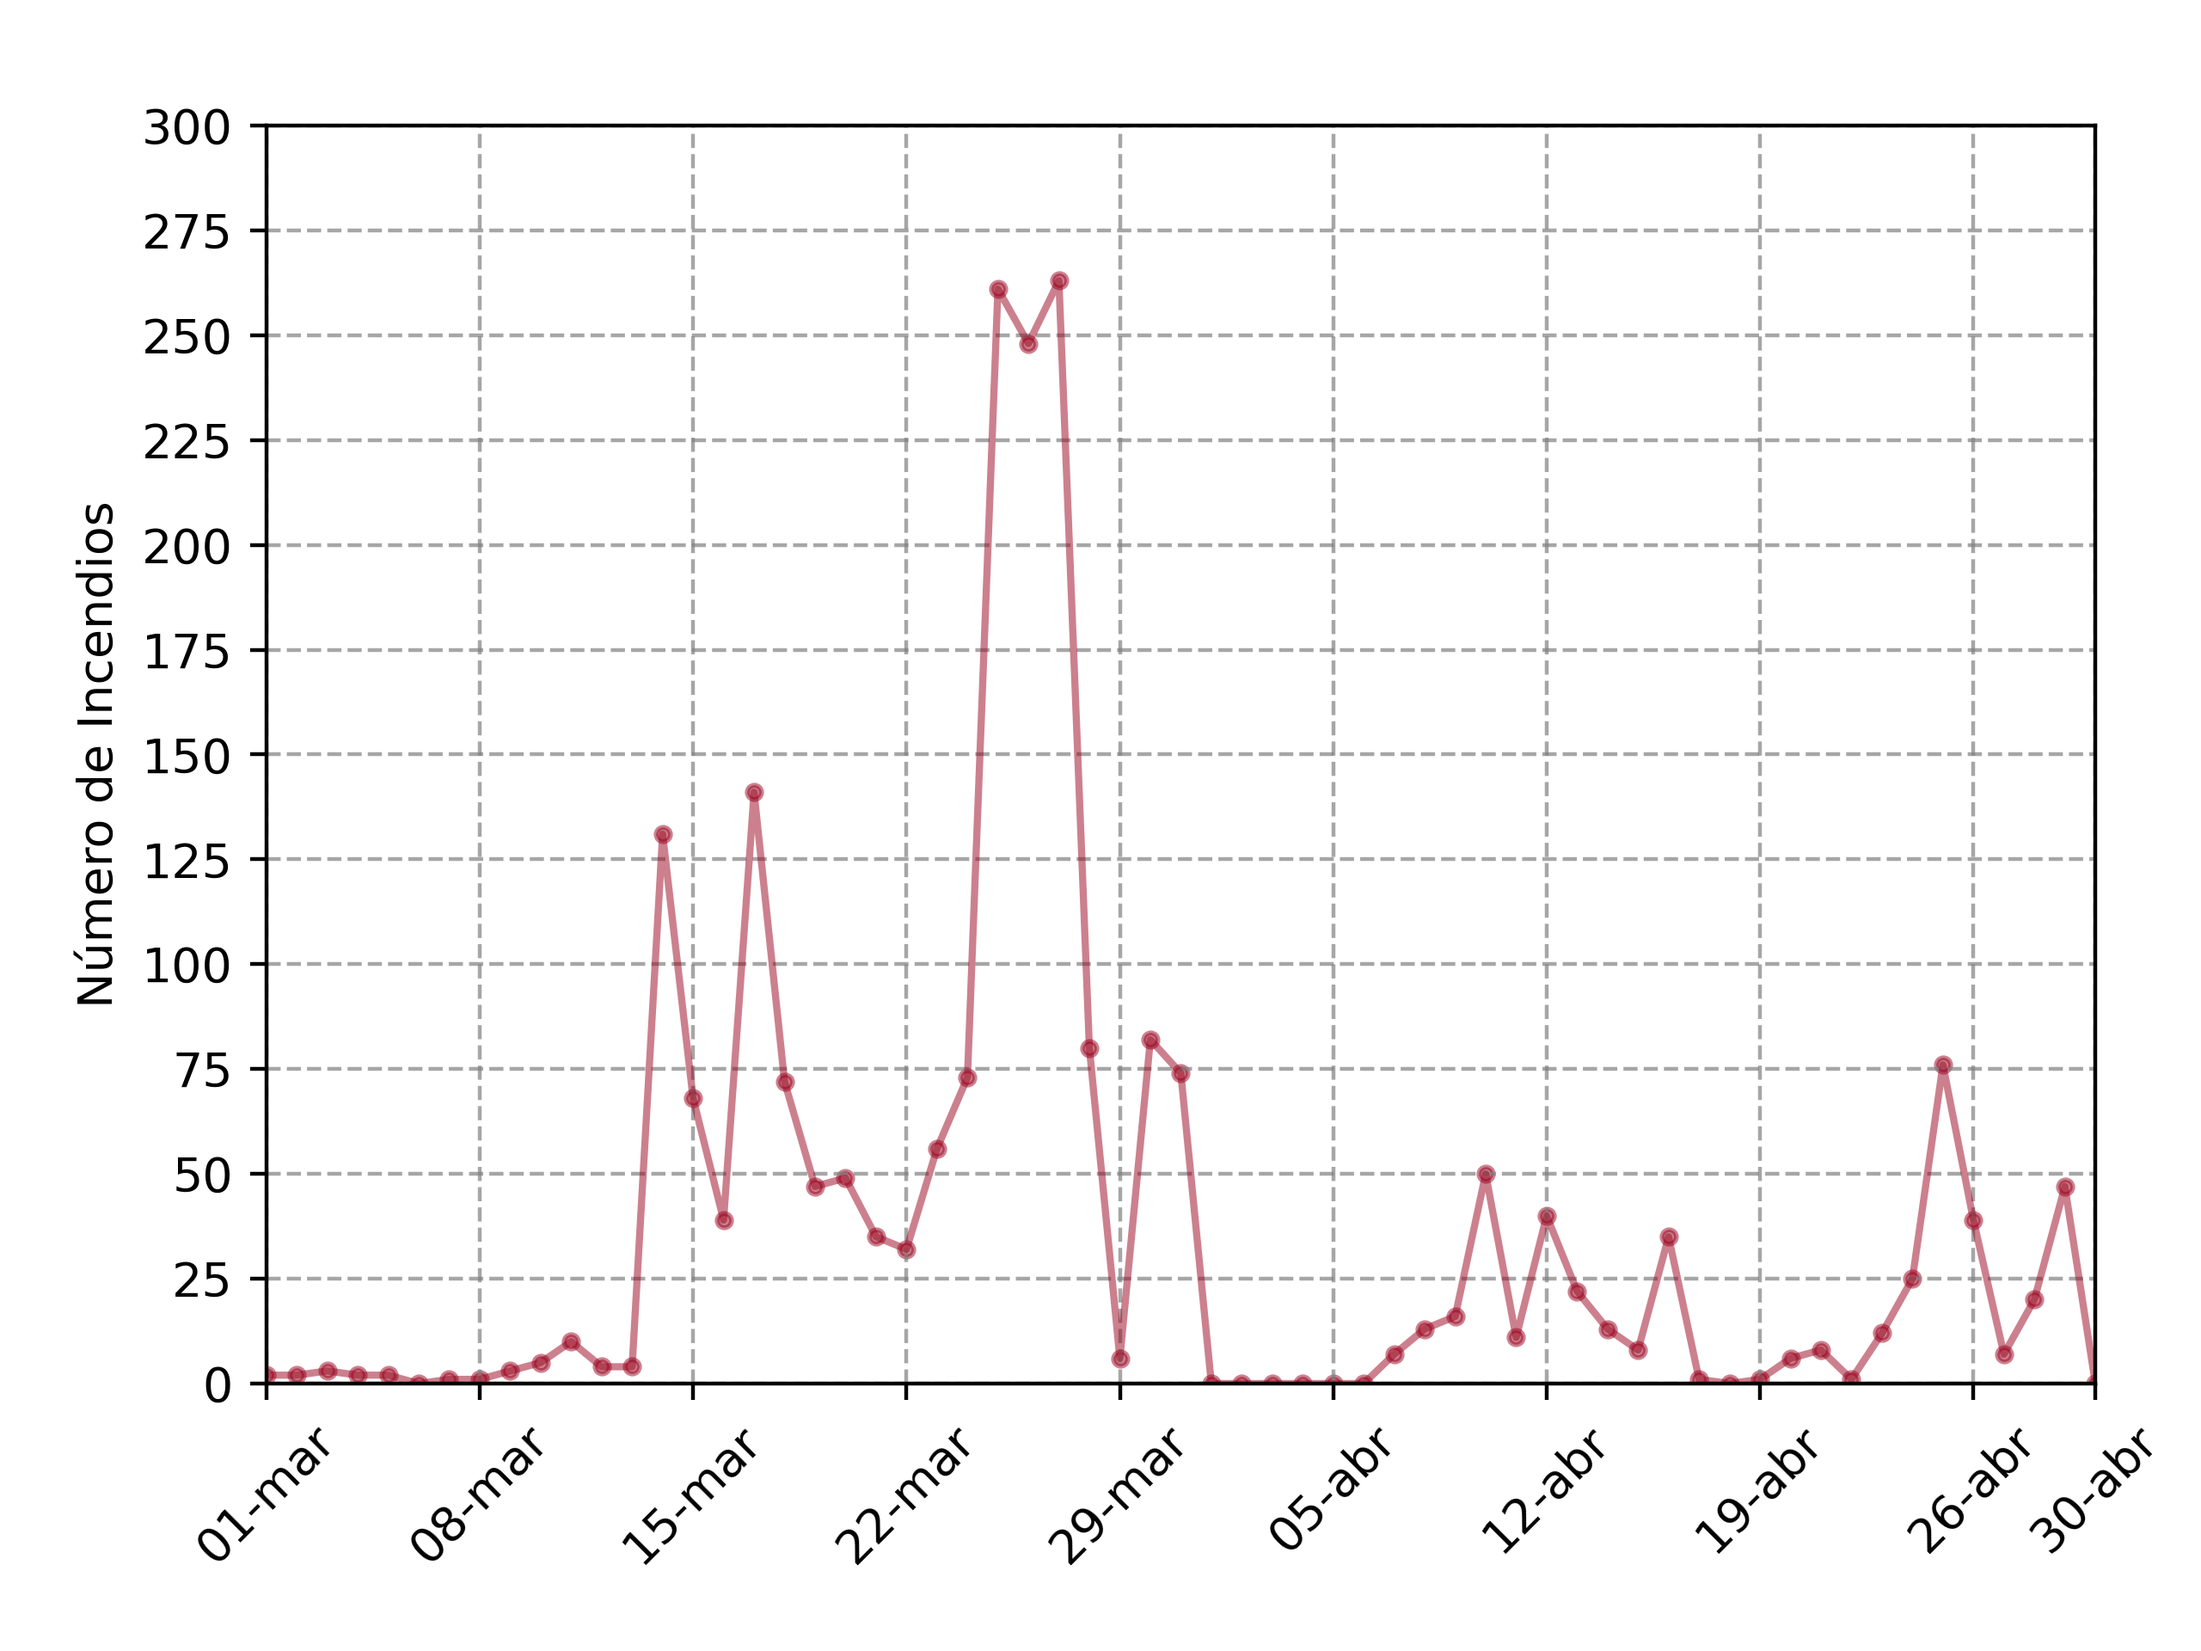
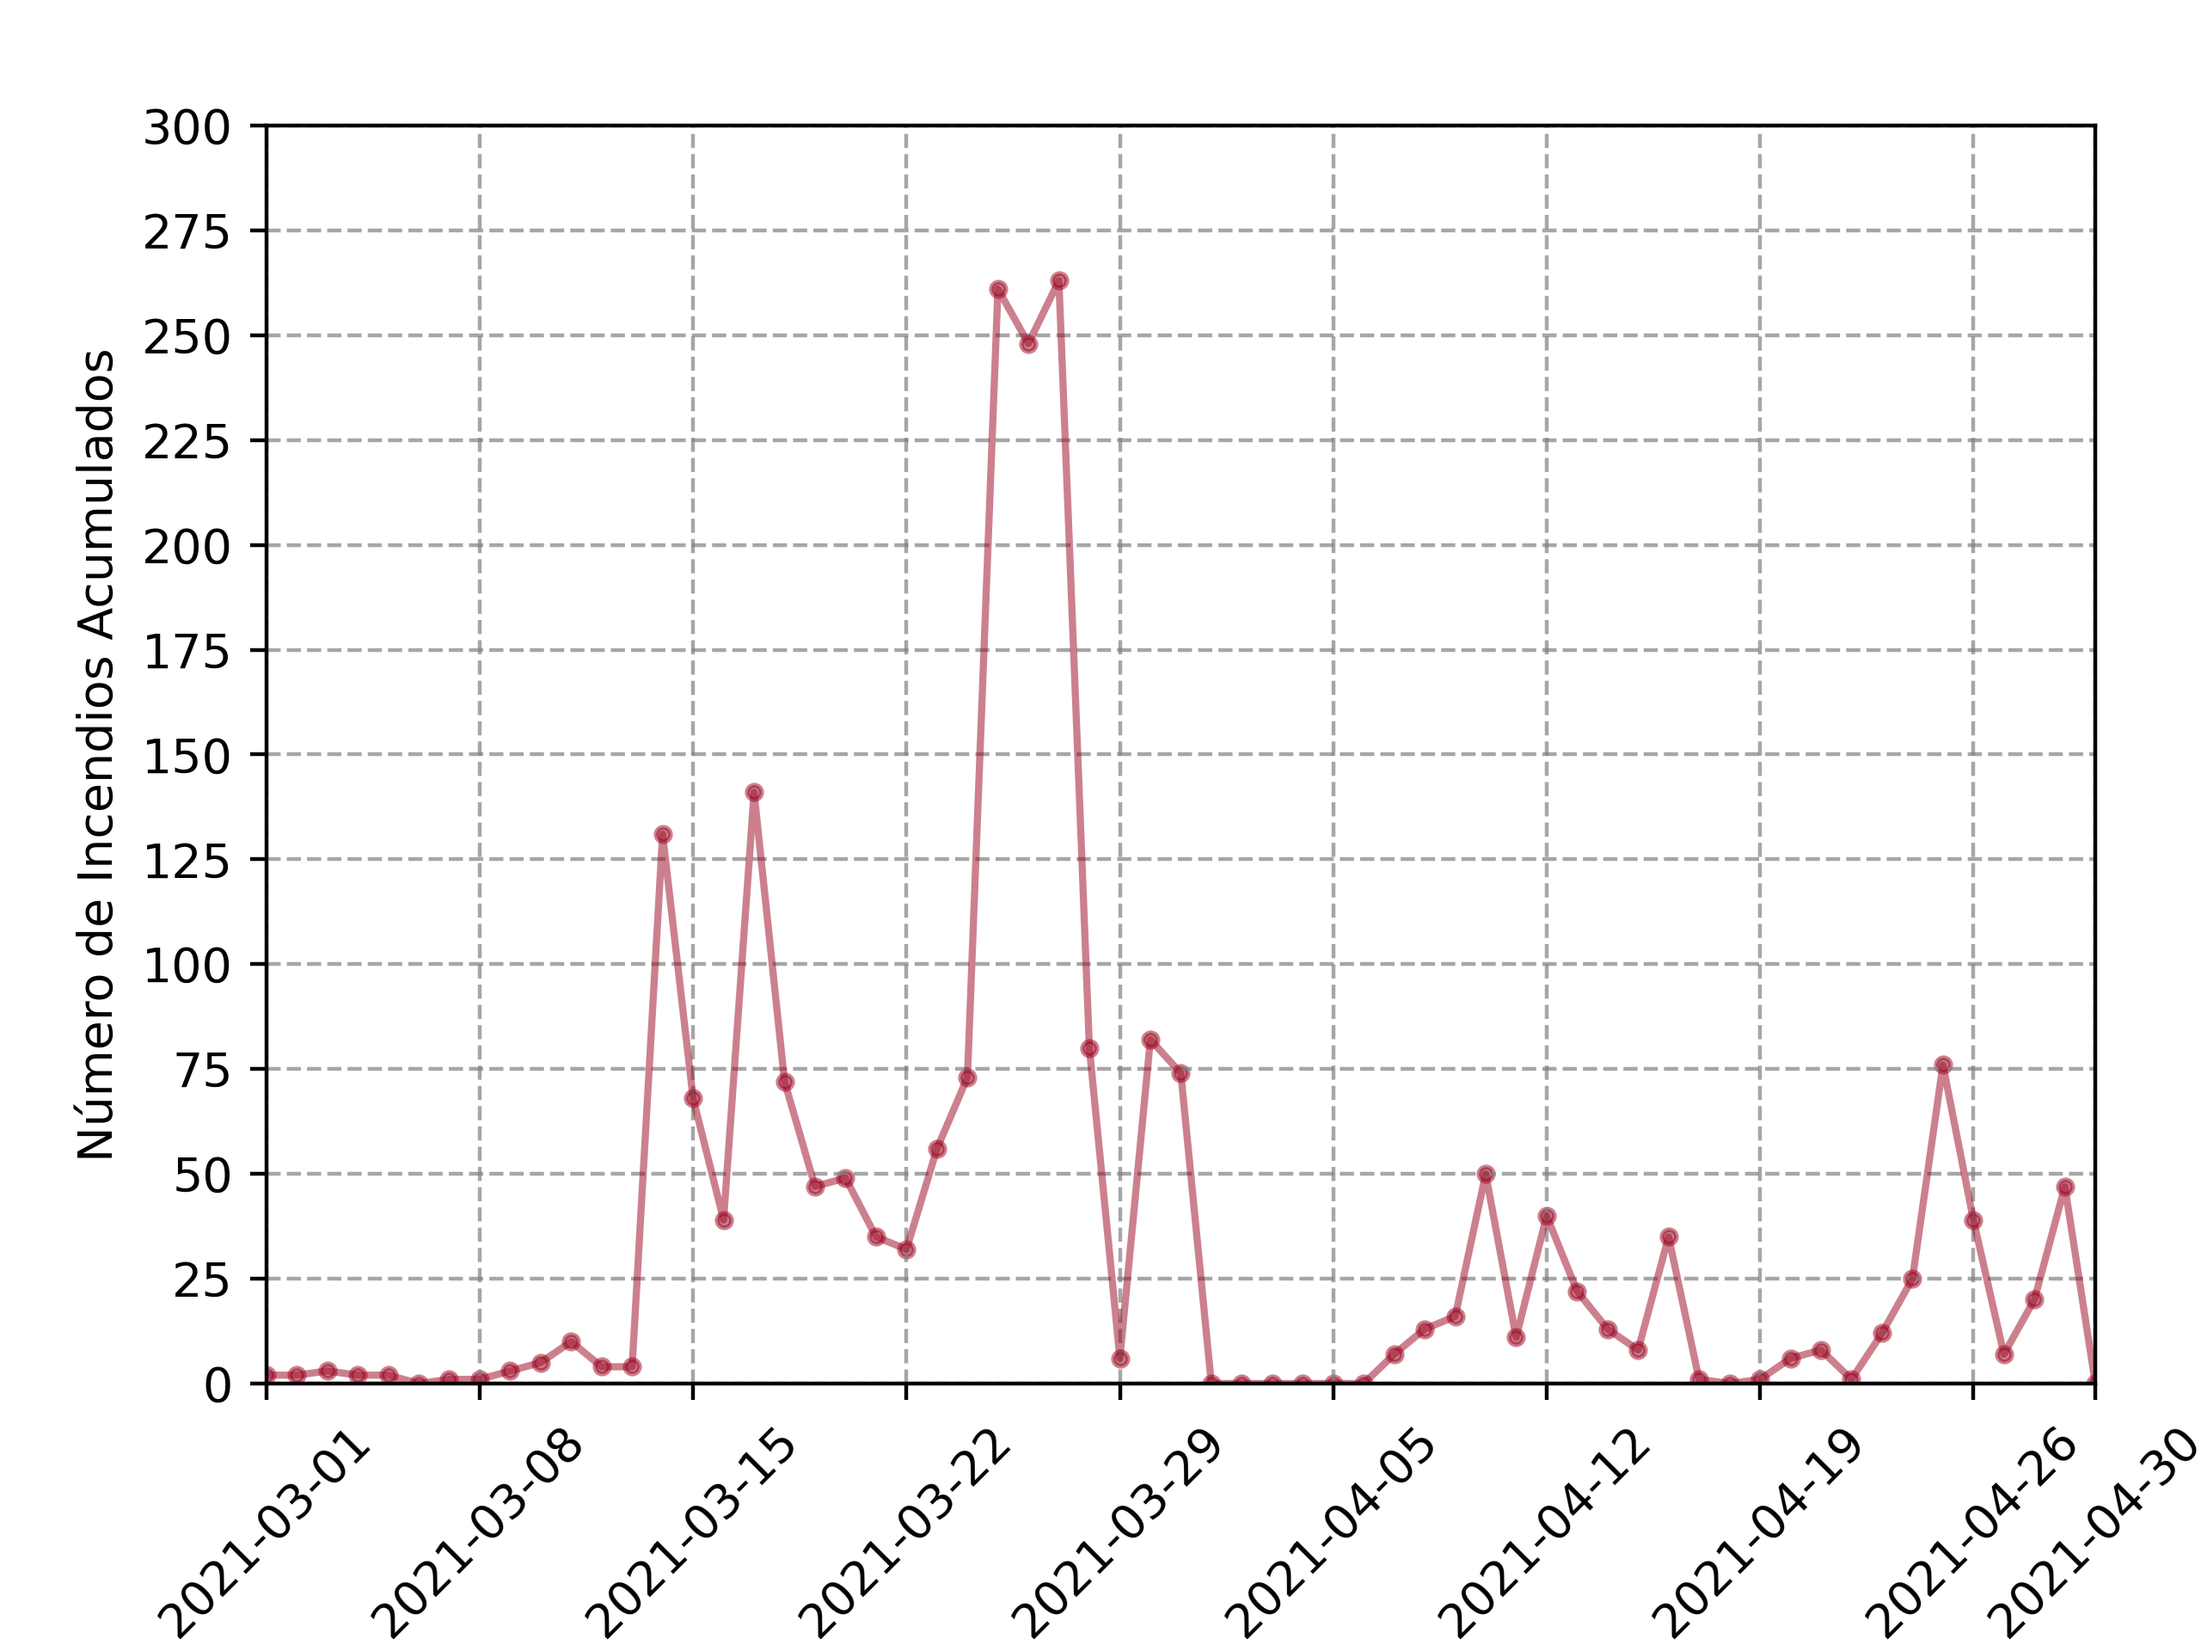
Add documentation

diff --git a/Scripts/Graphics_Fire_Day.py b/Scripts/Graphics_Fire_Day.py
@@ -1,9 +1,7 @@
-import matplotlib.pyplot as plt
-import pandas as pd
-import numpy as np
+from Class_list import *
 
 
-def obtain_ticks(data, day_separation):
+def obtain_ticks(data=pd.DataFrame(), day_separation=7):
     """
     Función que prepara dos arrays para renombrar las
     etiquetas del eje x de la grafica con las fechas
@@ -22,28 +20,32 @@ def obtain_ticks(data, day_separation):
     return dates
 
 
-def format_data(data):
-    data.index = pd.to_datetime(data["Dates"]).dt.strftime("%d-%b")
+def format_data(data=pd.DataFrame()):
+    """
+    Aplica el formato de fecha a la columna Dates y la agrega al indice del dataframe
+    """
+    data.index = pd.to_datetime(data["Dates"])
     data = data.drop("Dates", 1)
     return data
 
 
-inputs = {
-    "path data": "../Data/",
-    "path graphics": "../Graphics/",
+parameters = {
     "file data": "NI.csv",
     "graphics file": "Fire_Per_Day.png",
-    "city": "Nuevo_Leon",
+    "City name": "Nuevo_Leon",
     "Days separation": 7,
+    "Y limit": 300,
+    "Delta y": 25,
 }
+# Lectura de los parametros de cada ciudad
+city = city_list(city=parameters["City name"])
 # Lectura de los datos
-data = pd.read_csv("{}{}/{}".format(inputs["path data"],
-                                    inputs["city"],
-                                    inputs["file data"]))
+data = pd.read_csv("{}{}".format(city.parameters["path data"],
+                                 parameters["file data"]))
 data = format_data(data)
 # Extraccion de las fechas seleccionadas
 dates = obtain_ticks(data,
-                     inputs["Days separation"])
+                     parameters["Days separation"])
 # Limites de las graficas
 plt.subplots_adjust(left=0.121,
                     right=0.952,
@@ -60,21 +62,21 @@ plt.scatter(data.index, list(data["NI"]),
 # Limites de las graficas
 plt.xlim(dates[0],
          dates[-1])
-plt.ylim(0, 300)
+plt.ylim(0,
+         parameters["Y limit"])
 # Etiqueta en el eje y
-plt.ylabel("Número de Incendios")
+plt.ylabel("Número de Incendios Acumulados")
 # Cambio en las etiquetas de los ejes x y y
 plt.xticks(dates,
            rotation=45)
 plt.yticks(np.arange(0,
-                     300+25,
-                     25))
+                     parameters["Y limit"]+parameters["Delta y"],
+                     parameters["Delta y"]))
 # Creación del grid
 plt.grid(ls="--",
          color="grey",
          alpha=0.7)
 # Guardado de la grafica
-plt.savefig("{}{}/{}".format(inputs["path graphics"],
-                             inputs["city"],
-                             inputs["graphics file"]),
+plt.savefig("{}{}".format(city.parameters["path graphics"],
+                          parameters["graphics file"]),
             dpi=400)
